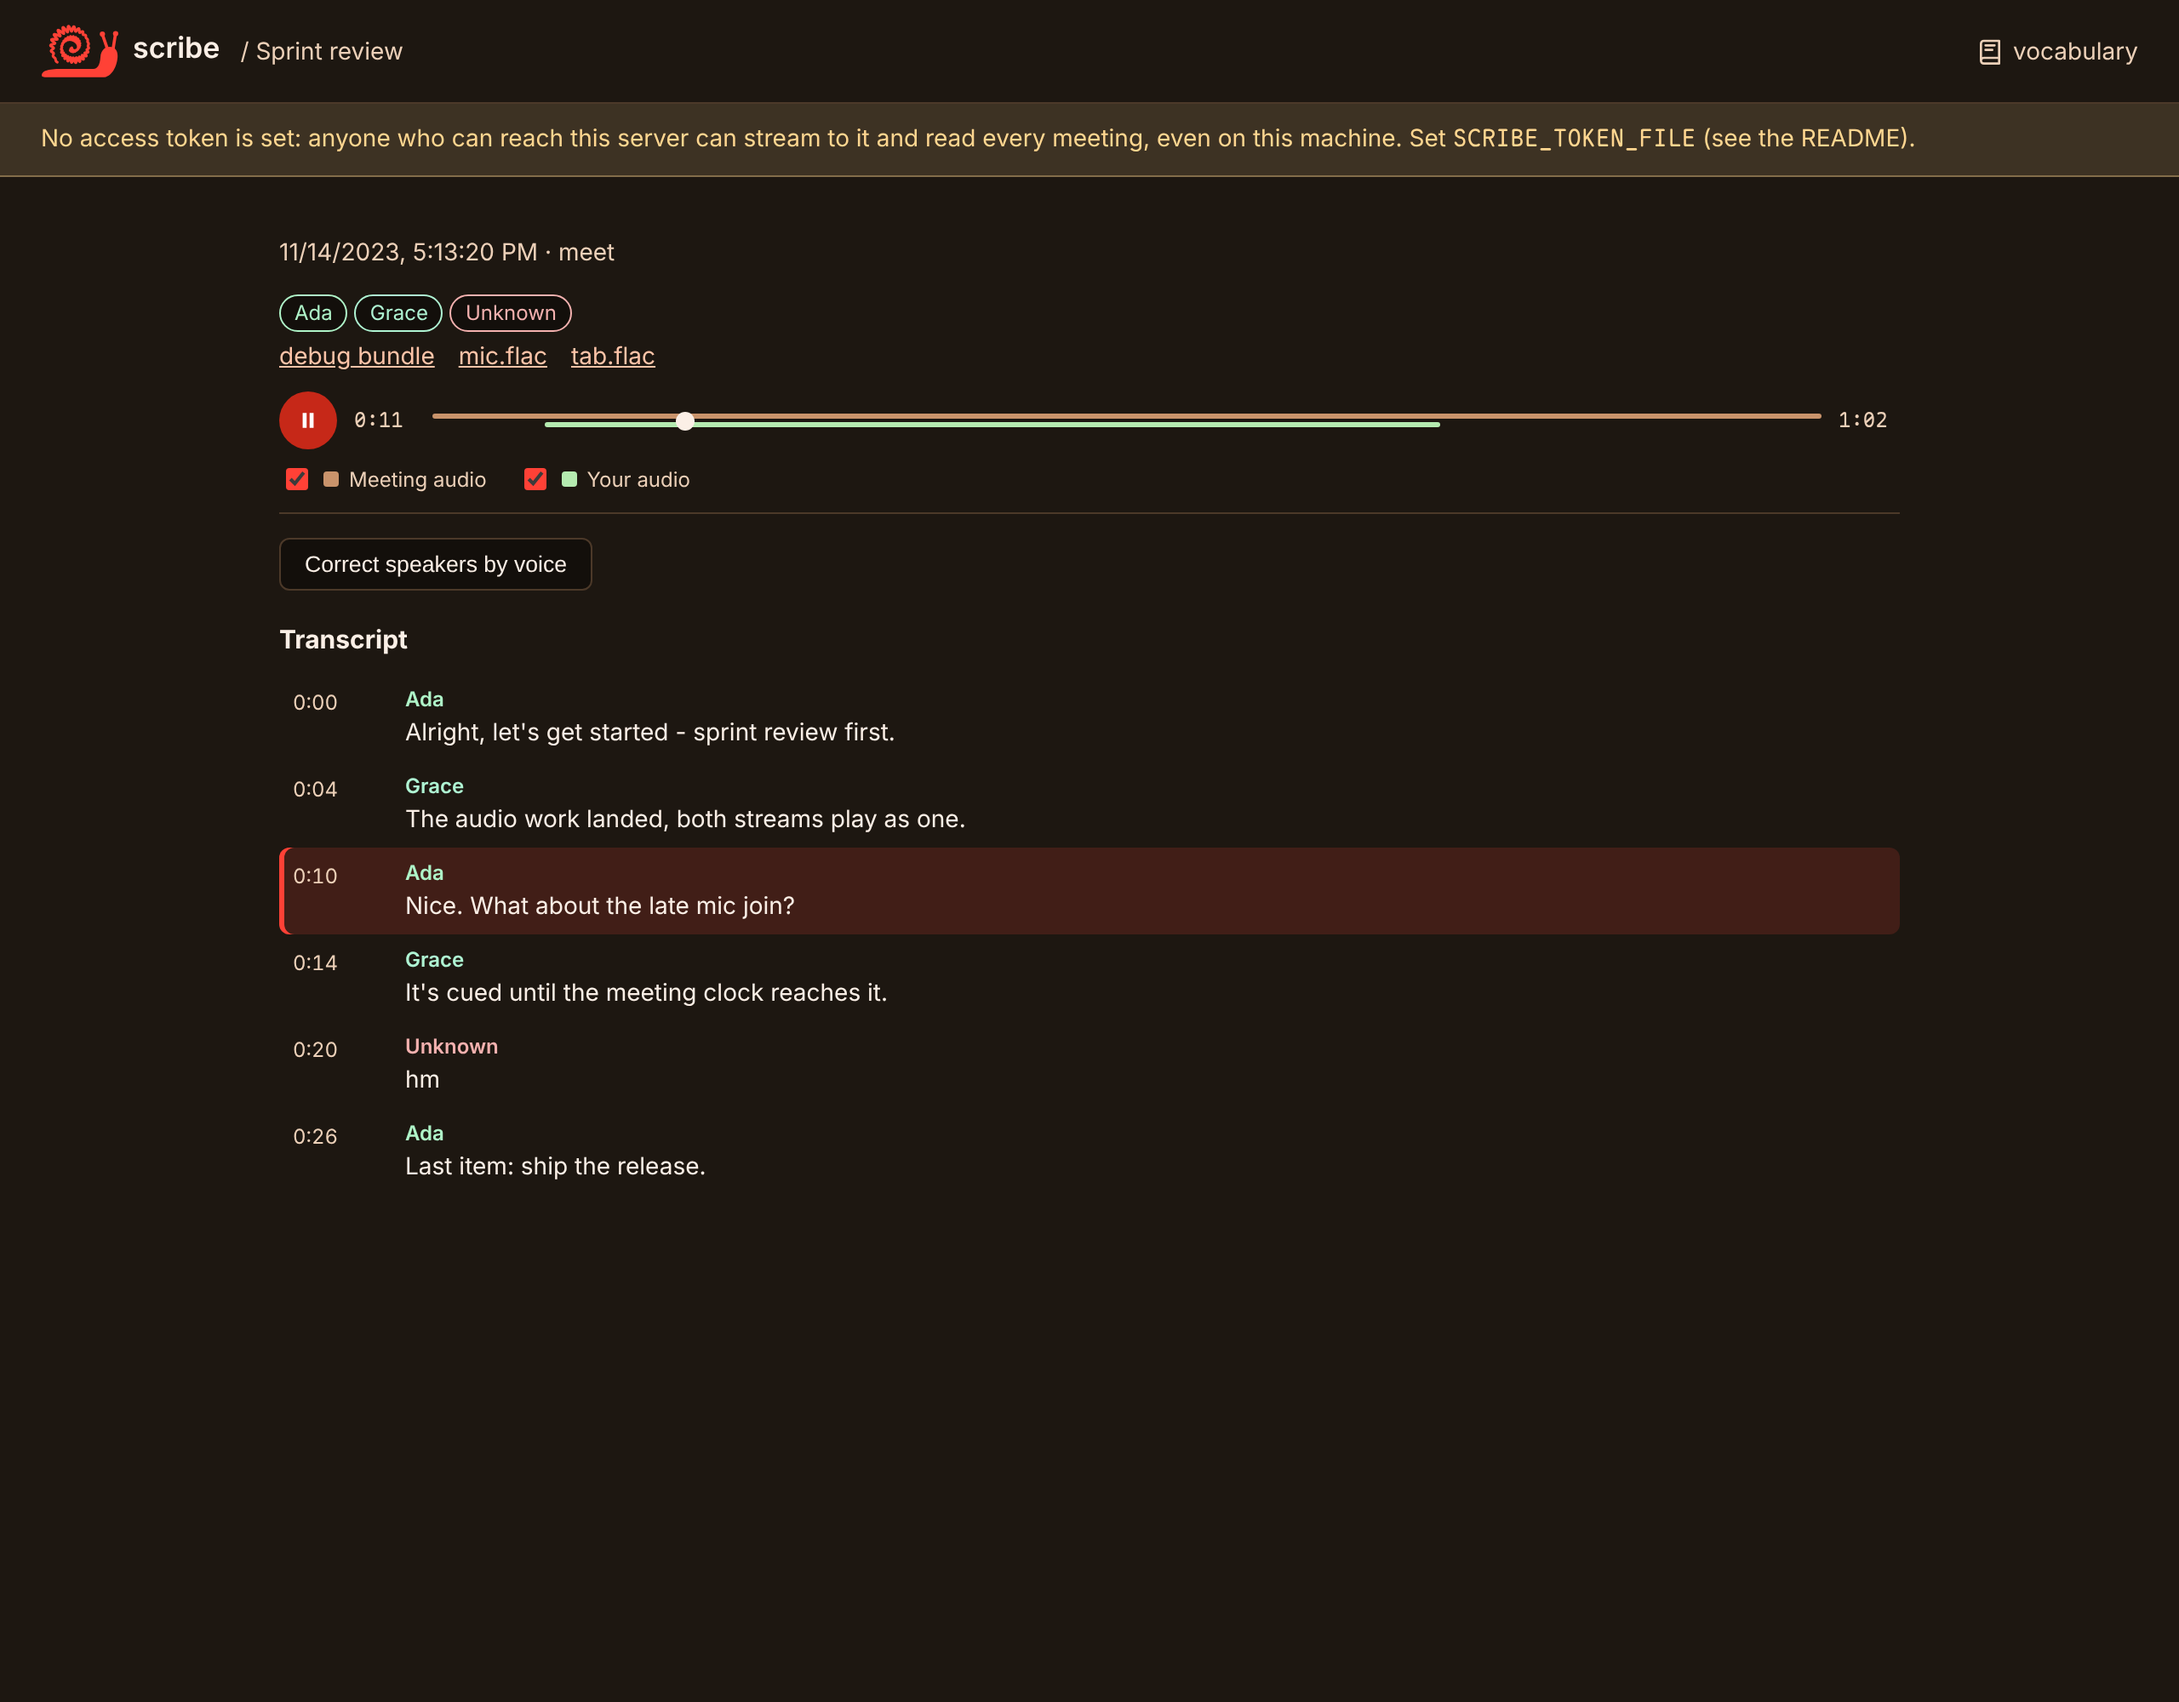
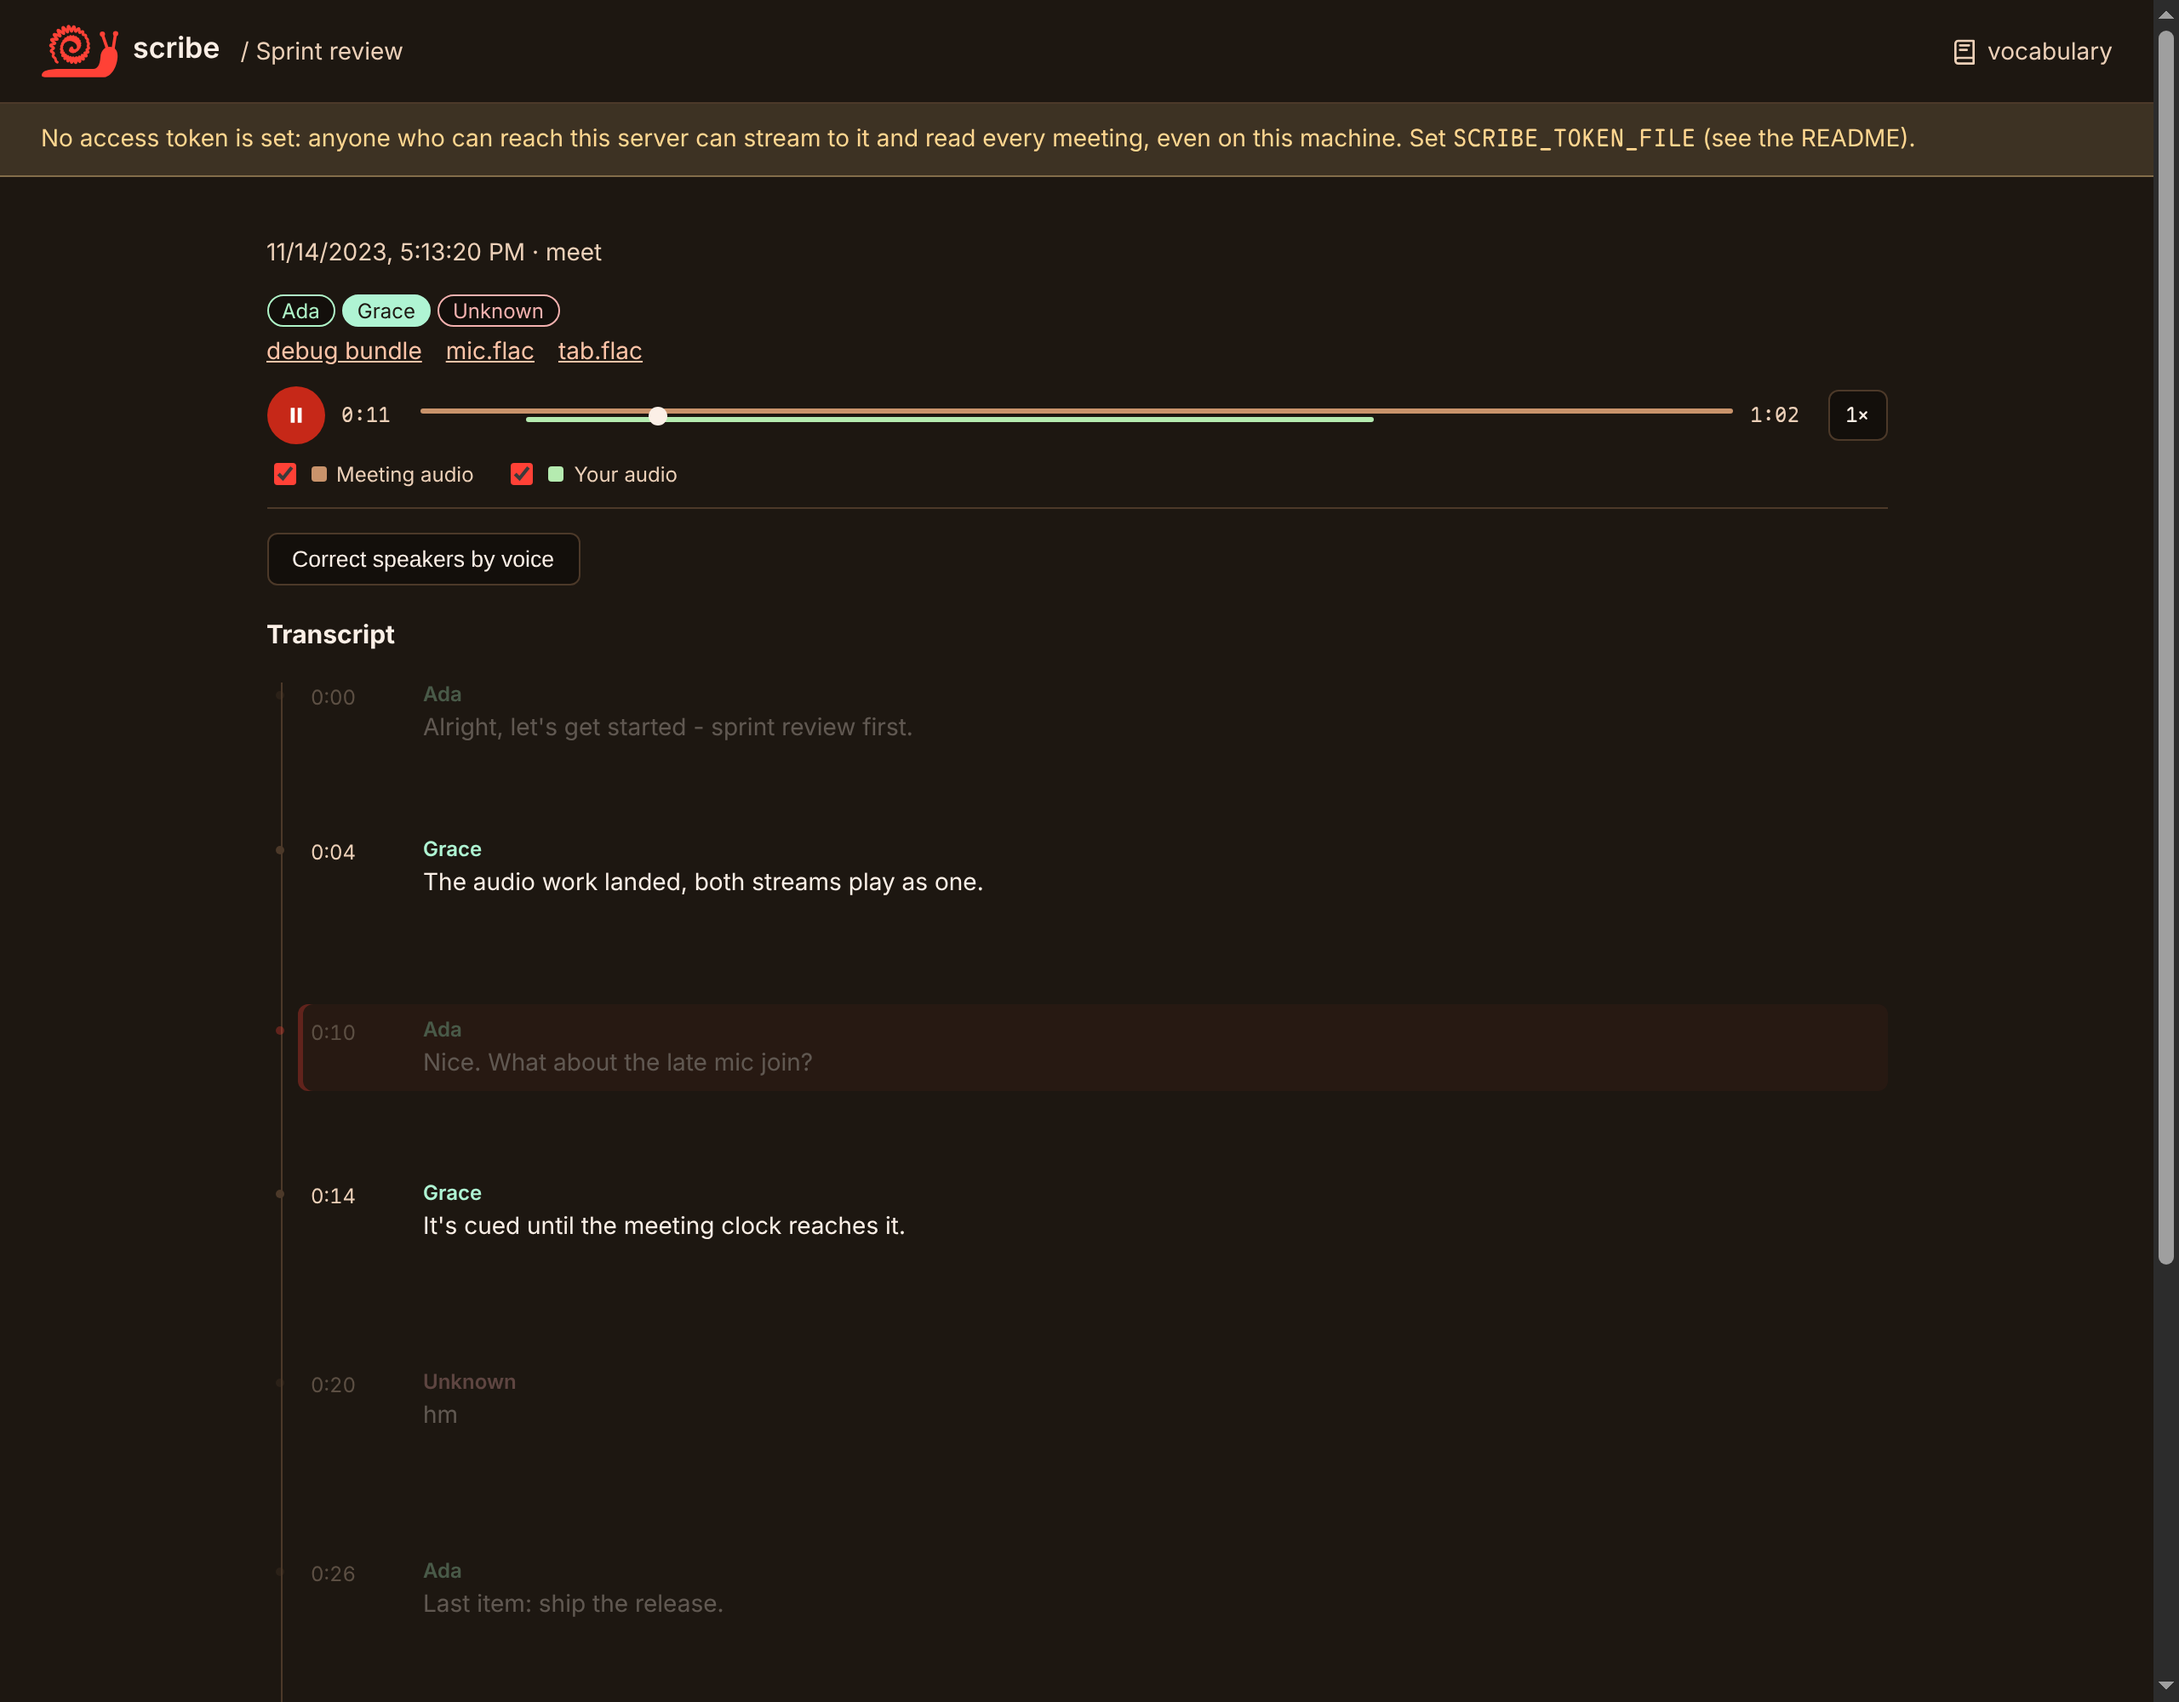
feat(web-ui): speed, spaced transcript, speaker filter
The transport gains a speed button stepping 1x, 1.25x, 1.5x, 2x, 0.5x; wall-clock gaps between streams advance at the chosen pace.

Transcript turns sit apart in proportion to the time between them, capped at a fifth of the viewport, down a rail with labelled silences.

Speaker chips are now buttons: clicking one dims everyone else's turns.

Verified with the headless-Chrome harness (47 assertions, all green, zero console errors).

Includes a change file.

diff --git a/server/ui.html b/server/ui.html
@@ -236,6 +236,16 @@
         font-variant-numeric: tabular-nums;
         color: var(--muted);
       }
+      /* One tap steps the meeting through the usual speeds. */
+      .player .speed {
+        flex: none;
+        min-width: 4ch;
+        padding: 6px 9px;
+        background: var(--surface);
+        color: var(--text);
+        border: 1px solid var(--line);
+        font: 12px var(--mono);
+      }
       .scrub {
         position: relative;
         flex: 1;
@@ -344,6 +354,7 @@
         height: 32px;
       }
       .turn {
+        position: relative;
         display: grid;
         grid-template-columns: 56px 1fr;
         gap: 10px;
@@ -370,6 +381,69 @@
       .turn .who {
         font-weight: 600;
         font-size: 12px;
+      }
+      /* The transcript runs down a rail: turns sit apart in proportion to
+         the time between them, so the page reads like the meeting felt. A
+         silence longer than a fifth of the viewport collapses to exactly
+         that, labelled with how long it was. */
+      .timeline {
+        position: relative;
+        padding-left: 18px;
+      }
+      .timeline::before {
+        content: "";
+        position: absolute;
+        left: 8px;
+        top: 8px;
+        bottom: 8px;
+        width: 1px;
+        background: var(--line);
+      }
+      .timeline .gap {
+        position: relative;
+      }
+      .timeline .gap .skip {
+        position: absolute;
+        left: -10px;
+        top: 50%;
+        transform: translate(-50%, -50%);
+        background: var(--bg);
+        padding: 3px 2px;
+        font: 10px var(--mono);
+        color: var(--muted);
+      }
+      .timeline .turn::before {
+        content: "";
+        position: absolute;
+        left: -13px;
+        top: 13px;
+        width: 5px;
+        height: 5px;
+        border-radius: 50%;
+        background: var(--line);
+      }
+      .timeline .turn.now::before {
+        background: var(--rec);
+      }
+      /* The chips up top are filters too: a speaker's turns stay at full
+         voice while the room dims around them. */
+      .speakers {
+        display: flex;
+        flex-wrap: wrap;
+      }
+      button.chip {
+        font-family: inherit;
+        cursor: pointer;
+      }
+      .chip.on {
+        background: var(--c);
+        color: var(--bg);
+      }
+      .timeline.focus .turn {
+        opacity: 0.3;
+      }
+      .timeline.focus .turn.mine {
+        opacity: 1;
       }
       .links a {
         color: var(--link);
@@ -738,6 +812,22 @@
             paint();
           });
 
+          // One tap steps through the usual speeds, and the streams keep
+          // their places on the clock wherever it lands.
+          const RATES = [1, 1.25, 1.5, 2, 0.5];
+          let rateSpot = 0;
+          const speed = el("button", {
+            className: "speed",
+            textContent: "1×",
+            ariaLabel: "Playback speed",
+            onclick: () => {
+              rateSpot = (rateSpot + 1) % RATES.length;
+              for (const p of timed) p.audio.playbackRate = RATES[rateSpot];
+              speed.textContent = `${RATES[rateSpot]}×`;
+              speed.ariaLabel = `Playback speed ${RATES[rateSpot]}×`;
+            },
+          });
+
           const lanes = el("div", { className: "lanes" });
           const laneBits = [];
           pick = el("div", { className: "pick" });
@@ -854,7 +944,9 @@
                 playing = false;
                 at = endAt();
               } else if (last && now > last) {
-                at = Math.min(at + (now - last), endAt());
+                // A gap between streams runs on wall time, at the chosen
+                // pace, so the next one joins when it should.
+                at = Math.min(at + (now - last) * RATES[rateSpot], endAt());
               }
               apply();
             }
@@ -875,6 +967,7 @@
             nowEl,
             el("div", { className: "scrub" }, lanes, range),
             totalEl,
+            speed,
           );
           // The streams live in the document, unseen: some browsers won't
           // play one that was never attached.
@@ -918,7 +1011,65 @@
           });
         };
 
+        // The transcript runs down a rail, turns spaced by when they were
+        // said so the page reads like the meeting felt. A silence longer
+        // than a fifth of the viewport collapses to exactly that, labelled
+        // with how long it ran.
+        const timeline = el("div", { className: "timeline" });
+        turns.forEach((turn, i) => {
+          const seg = segments[i];
+          const prev = segments[i - 1];
+          const gapS =
+            i > 0 && seg.at != null && prev?.at != null
+              ? (seg.at - prev.at) / 1000
+              : 0;
+          if (gapS * 10 >= 8) {
+            const cap = Math.min(gapS * 10, innerHeight / 5);
+            timeline.appendChild(
+              el(
+                "div",
+                { className: "gap", style: `height:${cap}px` },
+                ...(gapS * 10 > innerHeight / 5
+                  ? [
+                      el("span", {
+                        className: "skip",
+                        textContent: clock(gapS),
+                      }),
+                    ]
+                  : []),
+              ),
+            );
+          }
+          timeline.appendChild(turn);
+        });
+
         const speakers = [...new Set(segments.map((s) => s.speaker))];
+        // The chips up top are filters: tap a speaker and their turns stay
+        // lit while the rest of the room dims; tap again to bring it back.
+        let spot = null;
+        const speakerChips = speakers.map((name) => {
+          if (turns.length === 0) return chip(name);
+          const c = el("button", {
+            className: "chip",
+            type: "button",
+            textContent: name,
+            ariaPressed: "false",
+            onclick: () => {
+              spot = spot === name ? null : name;
+              speakerChips.forEach((other, j) => {
+                const on = speakers[j] === spot;
+                other.classList.toggle("on", on);
+                other.setAttribute("aria-pressed", on ? "true" : "false");
+              });
+              timeline.classList.toggle("focus", spot != null);
+              turns.forEach((turn, i) =>
+                turn.classList.toggle("mine", segments[i].speaker === spot),
+              );
+            },
+          });
+          c.style.setProperty("--c", color(name));
+          return c;
+        });
         const bundle = new Blob(
           [JSON.stringify({ sessionId: id, session, channels }, null, 2)],
           {
@@ -930,7 +1081,7 @@
             className: "muted",
             textContent: `${when(session?.startedAt)} · ${session?.platform ?? "unknown platform"}`,
           }),
-          el("div", {}, ...speakers.map(chip)),
+          el("div", { className: "speakers" }, ...speakerChips),
           el(
             "div",
             { className: "links" },
@@ -999,7 +1150,7 @@
           if (voices) body.push(voices);
           const bar = cleanupBar(id, cleaned, cleanLines, showCleaned);
           if (bar) body.push(bar);
-          body.push(el("h2", { textContent: "Transcript" }), ...turns);
+          body.push(el("h2", { textContent: "Transcript" }), timeline);
         } else {
           // No record from the extension (it never reached Stop): show each saved
           // stream's own words.

diff --git a/.changeset/one_transport.md b/.changeset/one_transport.md
@@ -4,4 +4,4 @@ default: patch
 
 # One transport for tab and mic audio
 
-A saved meeting now has a single audio transport: one play/pause button and a scrubber showing a lane per stream, all on the meeting's clock. Checkboxes mute the meeting audio and your own mic — both on by default — and clicking a transcript line still plays from there.
+A saved meeting now has a single audio transport: one play/pause button, a speed control, and a scrubber showing a lane per stream, all on the meeting's clock. Checkboxes mute the meeting audio and your own mic — both on by default — and clicking a transcript line still plays from there. The transcript now runs down a rail with turns spaced by how much time passed between them (long silences collapse and are labelled), and clicking a speaker's chip dims everyone else's turns.

diff --git a/README.md b/README.md
@@ -131,7 +131,7 @@ Every meeting is saved on the server. Open `http://localhost:8000` to browse
 them: click any line to replay the audio from there, or follow a recording live
 while it happens.
 
-![The web UI showing a saved meeting: speaker chips, one audio transport with a lane for the meeting and your own mic, and the transcript with the line being played highlighted](assets/web-ui.png)
+![The web UI showing a saved meeting: speaker chips that filter one speaker's turns, one audio transport with a lane for the meeting and your own mic plus a speed control, and a transcript spaced by time down a rail with the line being played highlighted](assets/web-ui.png)
 
 Your AI agents can read them too. Add the server's MCP endpoint to Claude Code:
 
